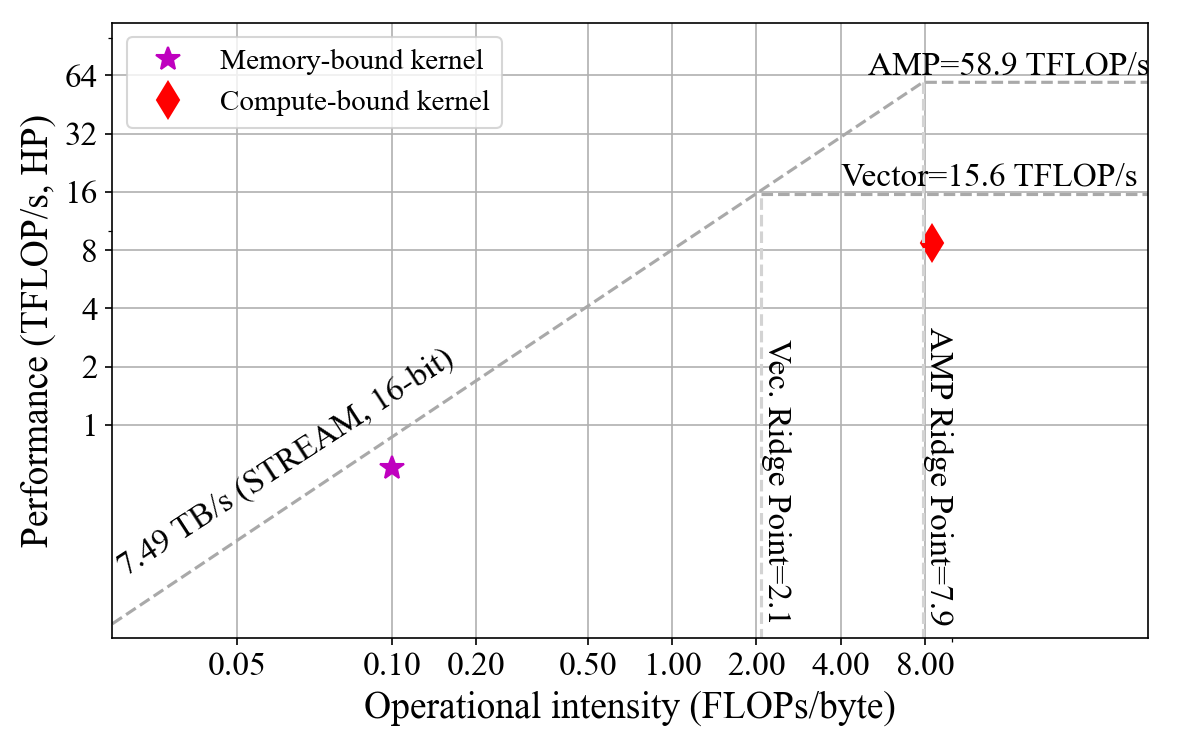
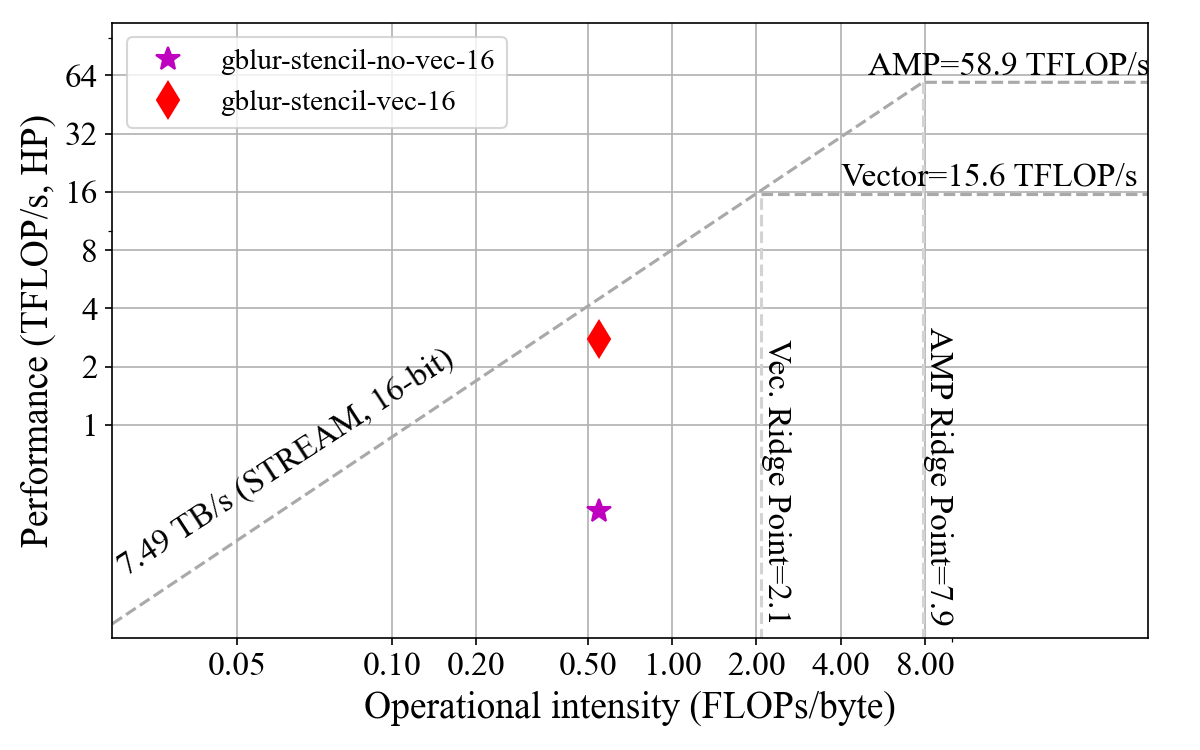
Change Roofline graph to show our kernel performance

diff --git a/article.tex b/article.tex
@@ -9,6 +9,7 @@
 \usepackage{xcolor}
 \usepackage{multirow}
 \usepackage{array}
+\usepackage{listings}
 \newcolumntype{L}[1]{>{\raggedright\let\newline\\\arraybackslash\hspace{0pt}}m{#1}}
 
 \def\BibTeX{{\rm B\kern-.05em{\sc i\kern-.025em b}\kern-.08em
@@ -84,7 +85,7 @@ Poplar programs build a computational dataflow graph in which nodes represent co
 
 Poplar programs follow Valiant's Bulk-Synchronous Parallel (BSP) model of computation~\cite{Valiant1990}, in which serial supersteps are made up of parallel execution, exchange and synchronisation phases. This allows concurrency hazards to be avoided, and the compiler is able to implicitly schedule and optimise the communication (``exchanges'') of tensor regions both between IPUs and between each IPU's tiles. In Poplar, the BSP style is enforced by grouping operations into ``compute sets'', with restrictions on reading and writing the same tensor regions from different workers in the same compute phase.
 
-While a large number of optimised operations on tensors (e.g. matrix multiplication, reductions, padding) are available through Poplar's libraries, custom operations called ``vertexes'' can be written in standard C++. Vertexes form the primary mechanism we will exploit for HPC purposes. An example is shown in Appendix~B.
+While a large number of optimised operations on tensors (e.g. matrix multiplication, reductions, padding) are available through Poplar's libraries, custom operations called ``vertexes'' can be written in standard C++. Vertexes form the primary mechanism we will exploit for HPC purposes. Example code for a Vertex is shown in Appendix~B.
 
 Vertexes are unaware of either the tensor abstraction or the graph -- they are small C++ objects defining methods which operate on primitive C++ types. Class members defined as special \texttt{Input}, \texttt{Output} or \texttt{InOut} types define a vertex's interface for wiring into the dataflow graph. Vertexes must be explicitly mapped to compute sets and tiles during program construction. 
 
@@ -94,7 +95,7 @@ Scaling to multiple IPUs is made relatively transparent by Poplar: by selecting 
 
 \section{Structured Grids and Stencils}
 \label{sec:structured-grids}
-Structured grids are one of the classes described by Asanov\'ic \emph{et~al} in their characterisation of the computational requirements of different parallel programming problems~\cite{dwarves}. They are commonly used in solvers for differential equations, such as those underpinning heat and fluid simulations.
+Structured grids are one of the classes described by Asanovi\'c \emph{et~al} in their characterisation of the computational requirements of different parallel programming problems~\cite{dwarves}. They are commonly used in solvers for differential equations, such as those underpinning heat and fluid simulations.
 
 In these applications, the domain under investigation is discretised onto a regular grid of cells. The structured layout means that a cell's neighbours can be located in a simple data structure using offset calculations, resulting in regular, predictable memory access patterns. This is in contrast to using \textit{un}structured grids, where neighbours are described using (sparse) graphs. 
 
@@ -295,7 +296,7 @@ Williams, Waterman and Patterson's Roofline model~\cite{roofline} is now widely 
          \caption{16-bit precision}
          \label{fig:roofline-hp}
      \end{subfigure}
-\caption{Roofline models for the IPU}
+\caption{Roofline models for the IPU. For clarity, we have only plotted the performance of the largest simulation size for our Gaussian Blur and LBM stencil kernels. }
 \label{fig:roofline}
 \end{figure}
 
@@ -405,7 +406,7 @@ We are encouraged by the promising performance seen for these two example applic
 
 Our work so far has focused on structured grid applications, which find a natural expression in tensor representations, but we have also begun work with unstructured grids on the IPU for use with finite element method simulations. These require more complex representations of the sparse connections between cells and more memory accesses, but we have been able to use the graph compiler to generate efficient communication of halo regions and expect to see similar benefits as structured grid implementations from the IPU's plentiful, low-latency SRAM memory and fast exchanges.
 
-Expressing our chosen HPC problems in Poplar was not always straightforward compared with familiar HPC technologies such as OpenMP, MPI and OpenCL. We found Poplar code to be more verbose than our OpenCL implementations ($\sim$1.6x lines of code difference for the Gaussian Blur stencils). 
+Expressing our chosen HPC problems in Poplar was not always straightforward compared with familiar HPC technologies such as OpenMP, MPI and OpenCL. We found Poplar code to be more verbose than our OpenCL implementations ($\sim$1.6x lines of code for the Gaussian Blur stencils). 
 
 There are important limitations in using IPU for HPC problems. Firstly, Poplar graphs are static, making it difficult to implement techniques such as dynamic grids and adaptive mesh refinement. Secondly, the graph compile time (a run-time cost) is very high compared to compilation of e.g. OpenCL kernels. For our small problems, graph compilation took longer than executing the resulting programs. Ahead-of-time compilation is also possible in Poplar. Thirdly, code developed for the IPU is not portable to other platforms. Fourthly, the IPU is limited to at most 32-bit precision, which may be insufficient for some scientific applications.
 
@@ -468,26 +469,101 @@ The authors would like to thank Graphcore for providing access to a Dell DSS8440
 \section*{Appendix A: Platform details}
 \label{app:platform-details}
 \scriptsize{
-Comparison implementations in CPU and GPU are in OpenCL v1.1. 
-
 \begin{itemize}
-    \item Intel(R) Xeon(R) Platinum 8168 (Skylake) CPUs @ 2.70GHz, 2x24 cores, 768GiB RAM
-    \item IPU driver version 1.0.44, firmware version 1.3.31. Poplar SDK version v1.2.0-495c1aa368
+    \item Intel\textregistered~Xeon\textregistered~ Platinum 8168 (Skylake) CPUs @ 2.70GHz, 2x24 cores, 768GiB RAM
+    \item IPU driver version 1.0.44, firmware version 1.3.31. Poplar SDK version v1.2.0-495c1aa368. IPU clock speed at 1.6 GHz
     \item Intel OpenCL driver v18.1.0.0920
     \item NVIDIA Volta V100 16GiB, NVIDIA CUDA Toolkit v8.0.44
     \item GCC 7.5.0 flags \texttt{-march=native -mtune=native -O3}
 \end{itemize}
+
+Comparison implementations for CPU and GPU use OpenCL v1.1. 
 }
 
 
-\section*{Appendix B: Example vertex}
+\section*{Appendix B: Example Poplar Code}
 \label{app:example-vertex}
 \scriptsize{
-The code below shows an example Vertex, and the use of the SIMD vector types:
+The Poplar C++ code below demonstrates a Vertex, and the use of the \texttt{half4} SIMD vector types:
 
-\begin{verbatim}
-TODO
-\end{verbatim}
+\begin{lstlisting}[language=C++, frame=single, basicstyle=\scriptsize]
+class GaussianBlurHalf4 : public Vertex {
+public:
+  // Flattened RGBA channels-last image fragments:
+  // `in' includes ghost cell padding,  
+  Input <Vector<half, VectorLayout::ONE_PTR, 8>> in;
+  // `out' has no ghost cell padding
+  Output <Vector<half, VectorLayout::ONE_PTR, 8>> out;
+  // width and height are unpadded
+  unsigned width;
+  unsigned height;
+
+  bool compute() {
+    // Recast as half4* to make compiler 
+    // generate 64-bit loads and stores
+    const auto h4in = reinterpret_cast<half4 *>(&in[0]);
+    auto h4out = reinterpret_cast<half4 *>(&out[0]);
+
+    // Vectorised: each variable represents 4 halfs
+    // So each operation works on 4 values
+    // We do one RGBA pixel (all channels) per iteration
+    for (auto y = 0; y < height; y++) {
+        for (auto x = 0; x < width; x++) {
+            #define H4_IDX(ROW, COL) \
+                (width+2)*((y+1)+ROW)+((x+1)+COL)
+
+            const auto nw = h4in[H4_IDX(-1, -1)];
+            const auto w  = h4in[H4_IDX( 0, -1)];
+            const auto sw = h4in[H4_IDX(+1, -1)];
+            const auto n  = h4in[H4_IDX(-1,  0)];
+            const auto m  = h4in[H4_IDX( 0,  0)];
+            const auto s  = h4in[H4_IDX(+1,  0)];
+            const auto ne = h4in[H4_IDX(+1, +1)];
+            const auto e  = h4in[H4_IDX( 0, +1)];
+            const auto se = h4in[H4_IDX(-1, +1)];
+            h4out[width * y + x] =  
+                1.f/16 * (nw+ne+sw+se) +
+                4.f/16 * m + 
+                2.f/16 * (e+w+s+n);
+        }
+    }
+    return true;
+  }
+};
+\end{lstlisting}
+
+The following snippet demonstrates how a Vertex is added to the graph and mapped to a tile:
+
+
+\begin{lstlisting}[language=C++, frame=single, basicstyle=\scriptsize]
+auto graph = poplar::Graph(ipuDevice);
+...
+// Omitted for brevity: 
+// Tensors are declared and partitioned over tiles
+// Some tensor slices are defined: 'someTensorSliceWithHalos' 
+// (mostly on tile 123, with borders on neighbouring tiles);
+// 'someTensorSliceNoHalos' (wholly contained on tile 123) 
+...
+// Load the file containing the vertex code
+graph.addCodelets("GaussianBlurCodelets.cpp",
+    CodeletFileType::Auto, 
+    "-O3");
+// Create a compute set (BSP phase)
+auto cs = graph.addComputeSet("Example Compute Set");
+// Add vertex to the graph, wiring up to tensor slices
+auto v = graph.addVertex(
+  cs,
+  "GaussianBlurHalf4",
+  {
+    {"in",  someTensorSliceWithHalos.flatten()},
+    {"out", someTensorSliceNoHalos.flatten()},
+  });
+graph.setInitialValue(v["width"], width);
+graph.setInitialValue(v["height"], height);
+graph.setTileMapping(v, 123); // Place vertex on tile 123
+...
+\end{lstlisting}
+
 }
 
 
